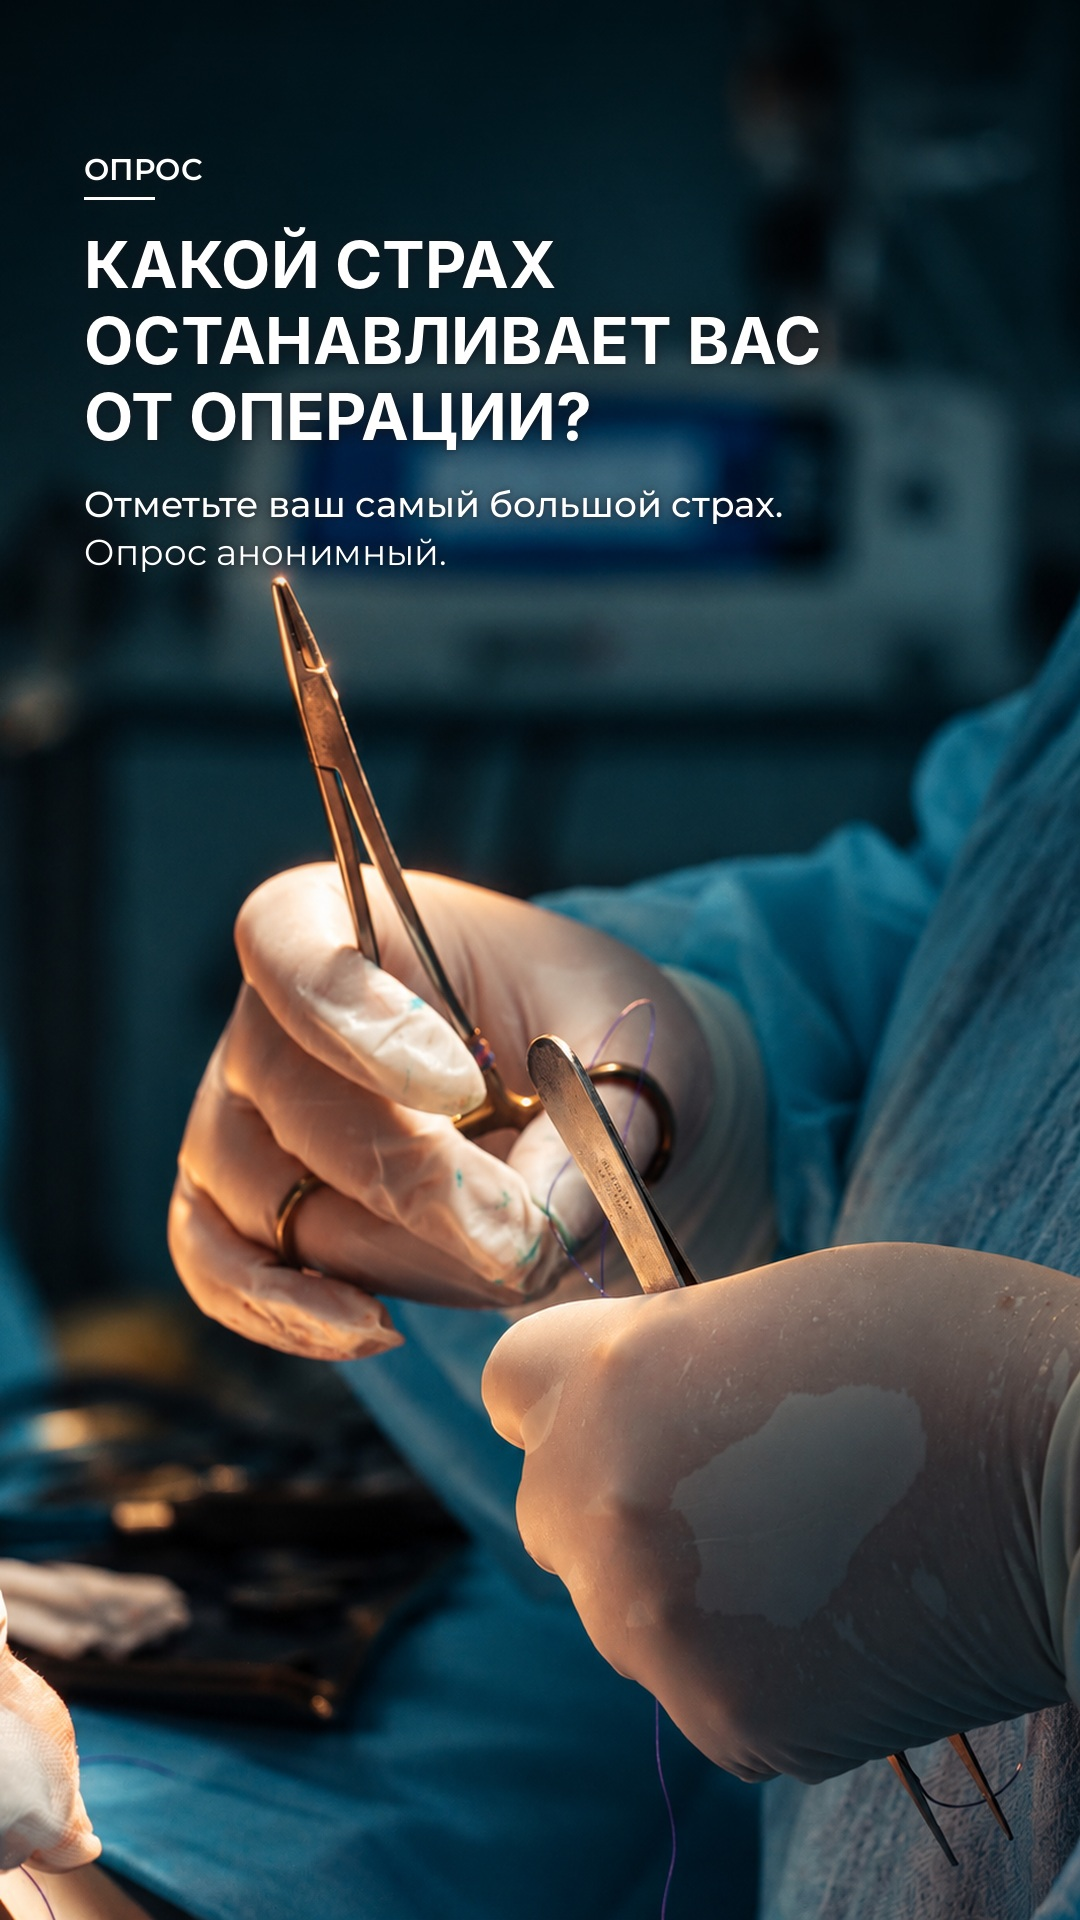
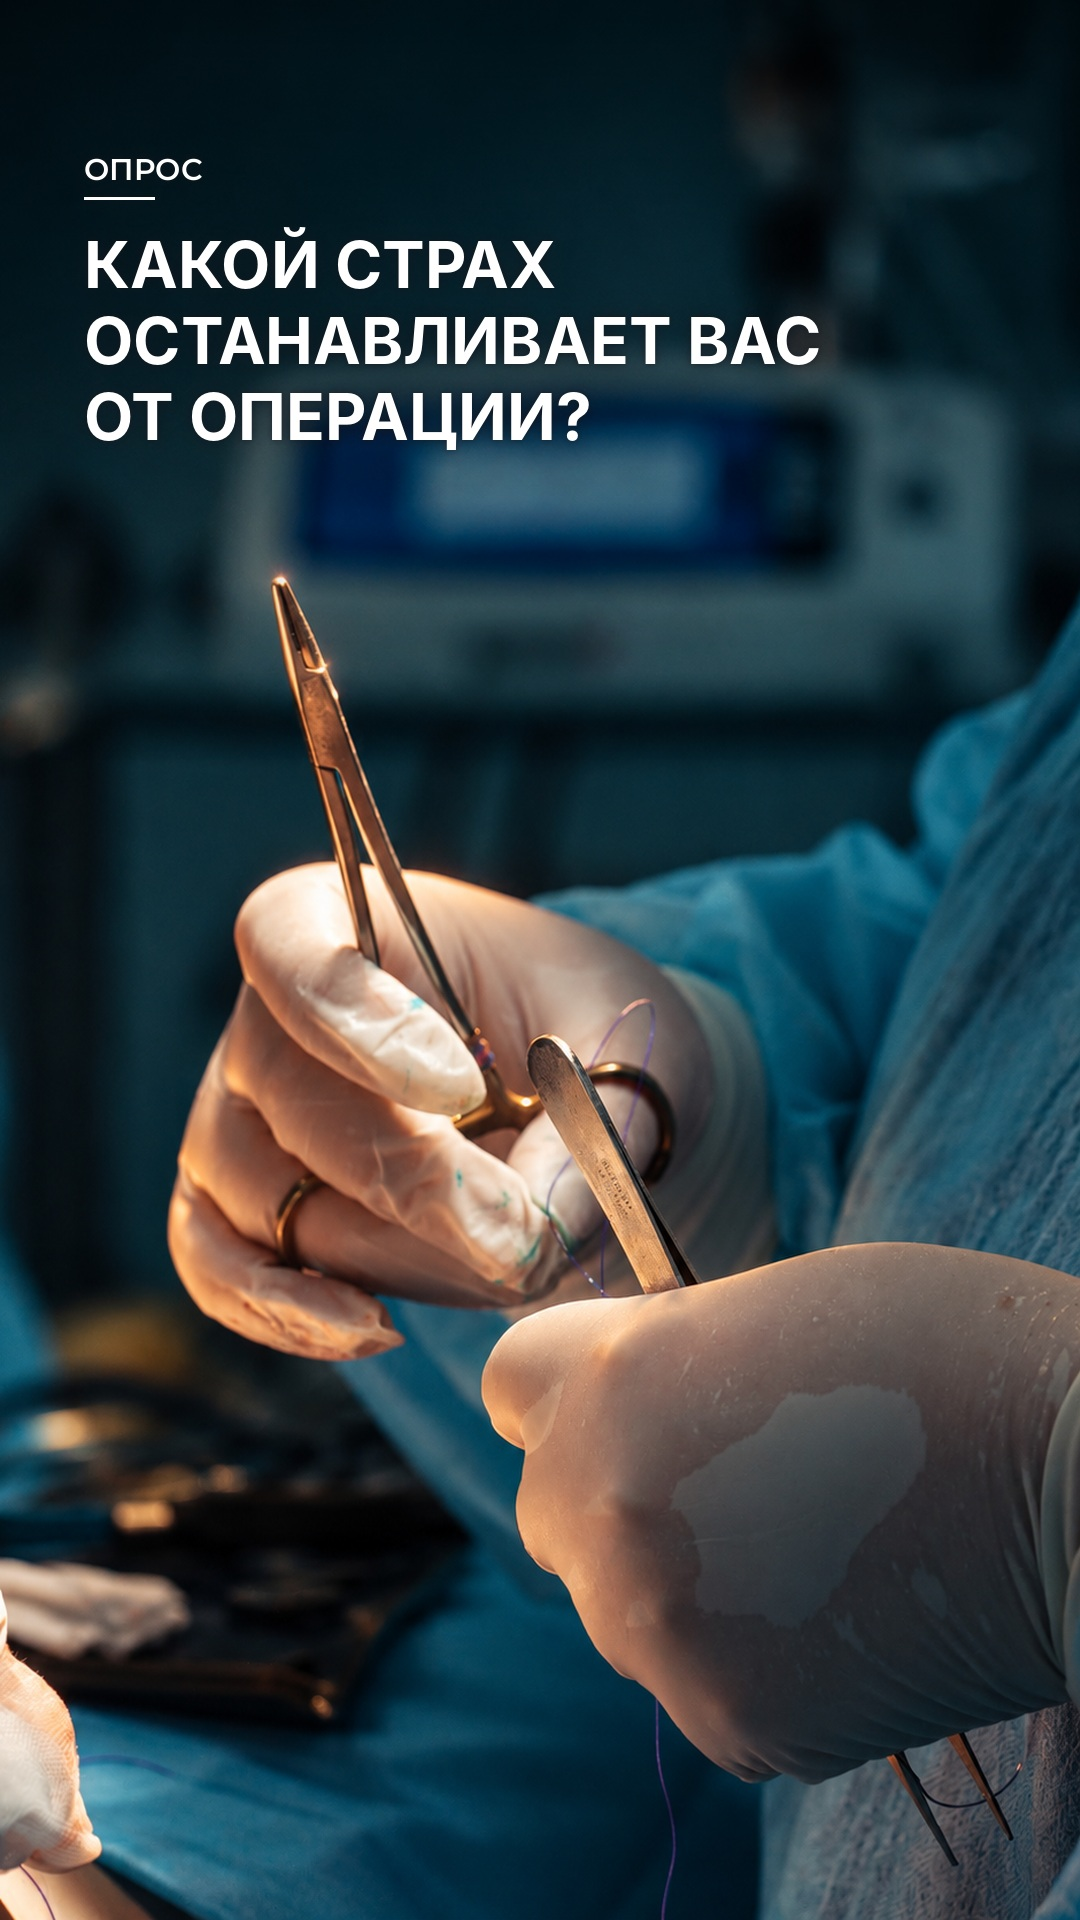
Anesthesia stories: no small text under the question, text raised on slides 2 and 5
Claude-Session: https://claude.ai/code/session_01DoBoRz2HUe4yvMBz6dWv4L

Changed region(s): [[0.0917, 0.25, 0.7028, 0.3125]]

diff --git a/tools/stories_fear_anesthesia.py b/tools/stories_fear_anesthesia.py
@@ -67,8 +67,6 @@ def s1():
     y = lines_draw(lay, [("ОПРОС", mont(30, 600), 70)], MARGIN, 150)
     ImageDraw.Draw(lay).line((MARGIN, y - 22, MARGIN + 70, y - 22), fill=WHITE, width=3)
     y = lines_draw(lay, [("КАКОЙ СТРАХ", hb, 76), ("ОСТАНАВЛИВАЕТ ВАС", hb, 76), ("ОТ ОПЕРАЦИИ?", hb, 104)], MARGIN, y + 6)
-    lines_draw(lay, [("Отметьте ваш самый большой страх.", mont(36, 500), 48),
-                     ("Опрос анонимный.", mont(36, 400), 48)], MARGIN, y)
     save(shadowed(bg, lay), "01_opros.jpg")                 # y 700-1500 left free for the poll sticker
 
 
@@ -81,9 +79,9 @@ def s2():
     hb = ImageFont.truetype(BOLD, 58); b = mont(38, 400)
     lines = [("ВИЖУ, ЧТО СТРАХ", hb, 70), ("АНЕСТЕЗИИ ЛИДИРУЕТ", hb, 96),
              ("Очень хочу показать вам", b, 50), ("эмоции моих пациенток", b, 50), ("после операции", b, 50)]
-    top = H - 150 - sum(s for _, _, s in lines)
+    top = H - 300 - sum(s for _, _, s in lines)
     lines_draw(lay, lines, MARGIN, top)
-    ImageDraw.Draw(lay).text((W - MARGIN, H - 120), ">>>", font=mont(44, 500), fill=WHITE, anchor="rs")
+    ImageDraw.Draw(lay).text((W - MARGIN, H - 270), ">>>", font=mont(44, 500), fill=WHITE, anchor="rs")
     save(shadowed(bg, lay), "02_rezultat_oprosa.jpg")       # y 120 to ~1270 free for the results screenshot
 
 
@@ -93,7 +91,7 @@ def s5():
     hb = ImageFont.truetype(BOLD, 64); b = mont(37, 500)
     lines = [("ВСЁ ПРО НАРКОЗ", hb, 84), ("Как проходит анестезия,", b, 48),
              ("подготовка и пробуждение,", b, 48), ("смотрите в актуальном", b, 48), ("«Наркоз»", mont(37, 700), 0)]
-    top = H - 110 - 84 - 48 * 3 - 34
+    top = H - 260 - 84 - 48 * 3 - 34
     for (t, f, st), yy in zip(lines, np.cumsum([0] + [s for _, _, s in lines[:-1]])):
         d.text((W - MARGIN, top + yy), t, font=f, fill=NAVY + (255,), anchor="ra")
     # a soft white halo instead of a dark haze, so the lapel lines do not cut the letters

diff --git a/stories_fear_anesthesia/README.md b/stories_fear_anesthesia/README.md
@@ -2,7 +2,7 @@
 
 `python3 tools/stories_fear_anesthesia.py <папка с operaciya.png и portret.jpg> stories_fear_anesthesia [1|2|5]`
 
-1. `01_opros.jpg`: фото из операционной, вопрос «Какой страх останавливает вас от операции?» наверху;
+1. `01_opros.jpg`: фото из операционной, вопрос «Какой страх останавливает вас от операции?» наверху (без мелкого текста);
    середина свободна под стикер опроса Instagram.
 2. `02_rezultat_oprosa.jpg`: верх свободен под скрин результатов опроса; внизу «Вижу, что страх анестезии
    лидирует, очень хочу показать вам эмоции моих пациенток после операции» и «>>>».
